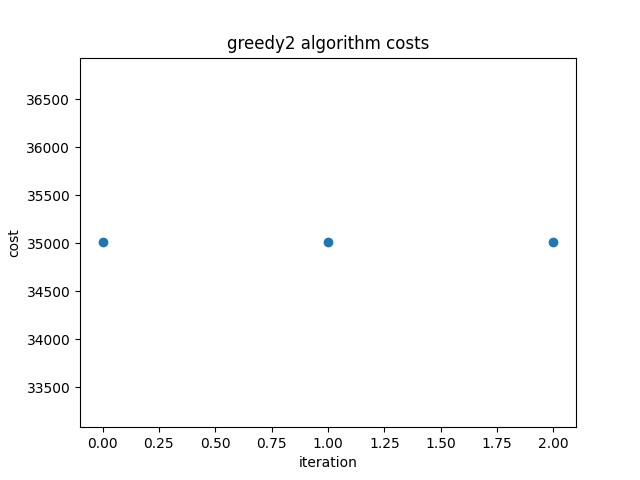
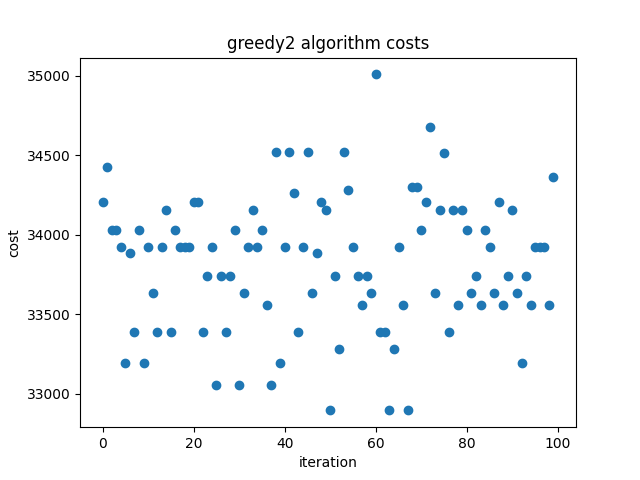
fix greedy

diff --git a/code/algorithms/greedy.py b/code/algorithms/greedy.py
@@ -9,7 +9,6 @@ class Greedy:
     def __init__(self, grid):
         self.grid = copy.deepcopy(grid)
 
-    # alternative
     def get_distance_house(self):
         """
         Calculates the Manhattan distances from each house to a battery
@@ -39,14 +38,21 @@ class Greedy:
         Find the houses with the shortest distance to their second closest battery, 
         connect if capacity of current battery is filled
         """
+        battery_numbers = [*range(0,len(self.grid.batteries.values()))]
+
         for battery in self.grid.batteries.values():
+            battery = self.grid.batteries[(random.choice(battery_numbers))]
             while battery.capacity_reached():
                 # Make a dict of distances from houses to their next closest battery
                 second_closest_battery = {}
                 for house in battery.houses:
                     house_obj = self.grid.houses[house]
-                    second_closest = house_obj.battery_distances[(house_obj.rank + 1)]
-                    second_closest_battery[house] = second_closest
+
+                    # Only move a house if there is still batteries left to move it too
+                    if house_obj.rank < 4:
+                        second_closest = house_obj.battery_distances[(house_obj.rank + 1)]
+                        second_closest_battery[house] = second_closest
+
 
                 # Sort that dict
                 second_closest_battery = sorted(second_closest_battery.items(), key=lambda x: x[1])
@@ -58,7 +64,8 @@ class Greedy:
                 # Remove found house from current battery
                 battery.houses.pop(replace_house)
                 # Indicate with rank that we've changed batteries
-                self.grid.houses[replace_house].rank += 1
+                if self.grid.houses[replace_house].rank < 3:
+                    self.grid.houses[replace_house].rank += 1
 
                 # Add house to new battery INDEX DIFFERENTLY
                 self.grid.batteries[replace_to_battery].add_house(self.grid.houses[replace_house])
@@ -71,15 +78,17 @@ class Greedy:
         """
         # Sort distances from each house to each battery
         self.get_distance_house()
+
         # Add houses to their closest battery
         self.battery_distance_list()
-        # If battery capacity is full, reconnect houses with the shortest distance to the next battery
-        for battery in self.grid.batteries.values():
-            while battery.capacity_reached():
-                self.replace_connections()
 
-        # If everything is good, start laying cables
-        for house in random.shuffle(self.grid.houses.values()):
+        # If battery capacity is full, reconnect houses with the shortest distance to the next battery
+        for i in range(20):
+
+            self.replace_connections()
+            
+        # Start laying cables
+        for house in self.grid.houses.values():
             closest_battery_id = house.battery_distances[house.rank][0]
             closest_battery = self.grid.batteries[closest_battery_id]
             house.battery = closest_battery_id
@@ -131,22 +140,14 @@ class Greedy:
                     y.append(cable_head_y)
 
             house.add_cable(cable.Cable(x, y, house, closest_battery, house.battery_distances[house.rank][1]))
-        
+        for battery in self.grid.batteries.values():
+                print(battery.capacity())
+        print('next:')
+
 
 
 ####################################################
-            
-
-
-            
-
-
-                    
-            
-       
-
-
-            
+                       
             
 
 ## Code van live coding ter inspiratie

diff --git a/main.py b/main.py
@@ -31,14 +31,11 @@ if __name__ == "__main__":
     # --------------------------- greedy --------------------------
     greedy1_costs = list()
     
-    for i in range(3):
+    for i in range(100):
         greedy1 = original_greedy.Greedy(grid1)
         greedy1.run()
         greedy1_costs.append(greedy1.grid.calc_cost())
     visualise_costs.visualise_costs(greedy1_costs, "greedy1")
-
-    greedy1 = original_greedy.Greedy(grid1)
-    greedy1.run()
 
     # --------------------------- depth_first --------------------------
     # depth1 = depth_first.Depth_first(grid1)
@@ -46,19 +43,15 @@ if __name__ == "__main__":
     # --------------------------- simulated_annealing --------------------------
     #sim_an1 = simulated_annealing.Simulated_annealing(grid1)
  # --------------------------- greedy 2 --------------------------
-    #greedy2_costs = list()
+    greedy2_costs = list()
     
-    # for i in range(1000):
-    #     greedy2 = greedy.Greedy(grid1).run_greedy
-    #     grid4 = greedy2.run()
-    #     greedy2_costs.append(grid4.calc_cost())
+    for i in range(100):
+        greedy2 = greedy.Greedy(grid1)
+        greedy2.run_greedy()
+        greedy2_costs.append(greedy2.grid.calc_cost())
 
-    # visualise_costs.visualise_costs(greedy2_costs, "greedy2")
-    
-    # greedy2 = greedy.Greedy(grid1)
-    # greedy2.run_greedy()
-    # greedy2_costs = (greedy2.grid.calc_cost())
-    # visualise_costs.visualise_costs(greedy2_costs, "greedy2")
+    visualise_costs.visualise_costs(greedy2_costs, "greedy2")
+
     # --------------------------- compare --------------------------
 
     # visualise_costs.compare_costs(random_costs, "random", greedy_costs, "greedy")

diff --git a/code/algorithms/fix_greedy.py b/code/algorithms/fix_greedy.py
@@ -1,0 +1,26 @@
+import copy
+import random
+from code.classes import grid, house, battery, cable
+
+
+class Fix_Greedy:
+    """
+    Take the outcome of the Greedy algorithm, and replace the houses of the batteries that are at max capacity.
+    """
+
+    def capacity_bad(self):
+        # Return the batteries that are at max capacity
+        full_batteries = list()
+        full_batteries.append([battery.id for battery in self.grid.batteries.values() if battery.capacity_left() < 0])
+        return full_batteries
+
+    def calc_distance(self, house_id, battery):
+        # Calc the distance between a house and a battery
+        distance = abs(self.grid.houses[house_id].x - battery.x) + abs(self.grid.houses[house_id].y - battery.y)
+        return distance
+
+    def replacable_houses(self, battery_id):
+        # Find the houses that would fix the surplus of current if replaced 
+        battery = self.grid.batteries[battery_id]
+        replacable_houses = list()
+        replacable_houses.append([house for house in battery.houses if self.distance(house, battery) > abs(battery.capacity_left())])   

diff --git a/code/algorithms/original_greedy.py b/code/algorithms/original_greedy.py
@@ -28,11 +28,12 @@ class Greedy:
             closest_battery = self.grid.batteries[next(iterable_object)]
 
             # go until you find a battery that has not reached capacity yet
-            while closest_battery.capacity_reached() == True:
+            while closest_battery.capacity_reached():
                 closest_battery = self.grid.batteries[next(iterable_object)]
 
             closest_battery.add_house(house)
             house.battery = closest_battery.id
+
 
             # determine cable location
             x = list()
@@ -81,6 +82,9 @@ class Greedy:
                     y.append(cable_head_y)
 
             house.add_cable(cable.Cable(x, y, house, closest_battery, distances[closest_battery.id]))
+        # for battery in self.grid.batteries.values():
+        #     print(battery.capacity_left())
+        # print('next:')
             
 
 

diff --git a/code/classes/battery.py b/code/classes/battery.py
@@ -17,7 +17,25 @@ class Battery():
             cum_output += float(house.max_output)
 
         # if capacity has been reached, return true
+        self.capacity - cum_output
         if self.capacity < cum_output:
             return True
         
         return False
+
+    def capacity_left(self):
+        cum_output = 0.0
+
+        for house in self.houses.values():
+            cum_output += float(house.max_output)
+
+        return self.capacity - cum_output
+
+    def capacity(self):
+        cum_output = 0.0
+
+        for house in self.houses.values():
+            cum_output += float(house.max_output)
+
+        #return cum_output, self.capacity, self.capacity - cum_output
+        return cum_output

diff --git a/code/algorithms/a_star.py b/code/algorithms/a_star.py
@@ -7,7 +7,13 @@
     -Not on the 'already visited' list
     -If battery --> stop if yes 
 - Create the new node with the parent as the current node and update the position of the node.
+f(n): lowest cost in neighbouring node n
+g(n): exact cost of the path from the starting node to any other no n
+h(n): heuristic: estimated lowest cost from node n to goal node 
+For every transition to another node, A* should calculate min(f(n) = g(n) + h(n)) 
 """
 
-Class Node():
-    
+class Node():
+#parent Node
+#current position
+#cost values

diff --git a/code/visualisations/visualise_costs.py b/code/visualisations/visualise_costs.py
@@ -4,10 +4,8 @@ import matplotlib.pyplot as plt
 import numpy as np
 
 def visualise_costs(costs, algo):
-    if algo is "greedy1":
-        print(sum(costs)/len(costs))
-    elif algo is "greedy2":
-        print(costs)
+    print(algo, sum(costs)/len(costs))
+
     plt.figure()
     plt.title(f"{algo} algorithm costs")
     plt.xlabel("iteration")
